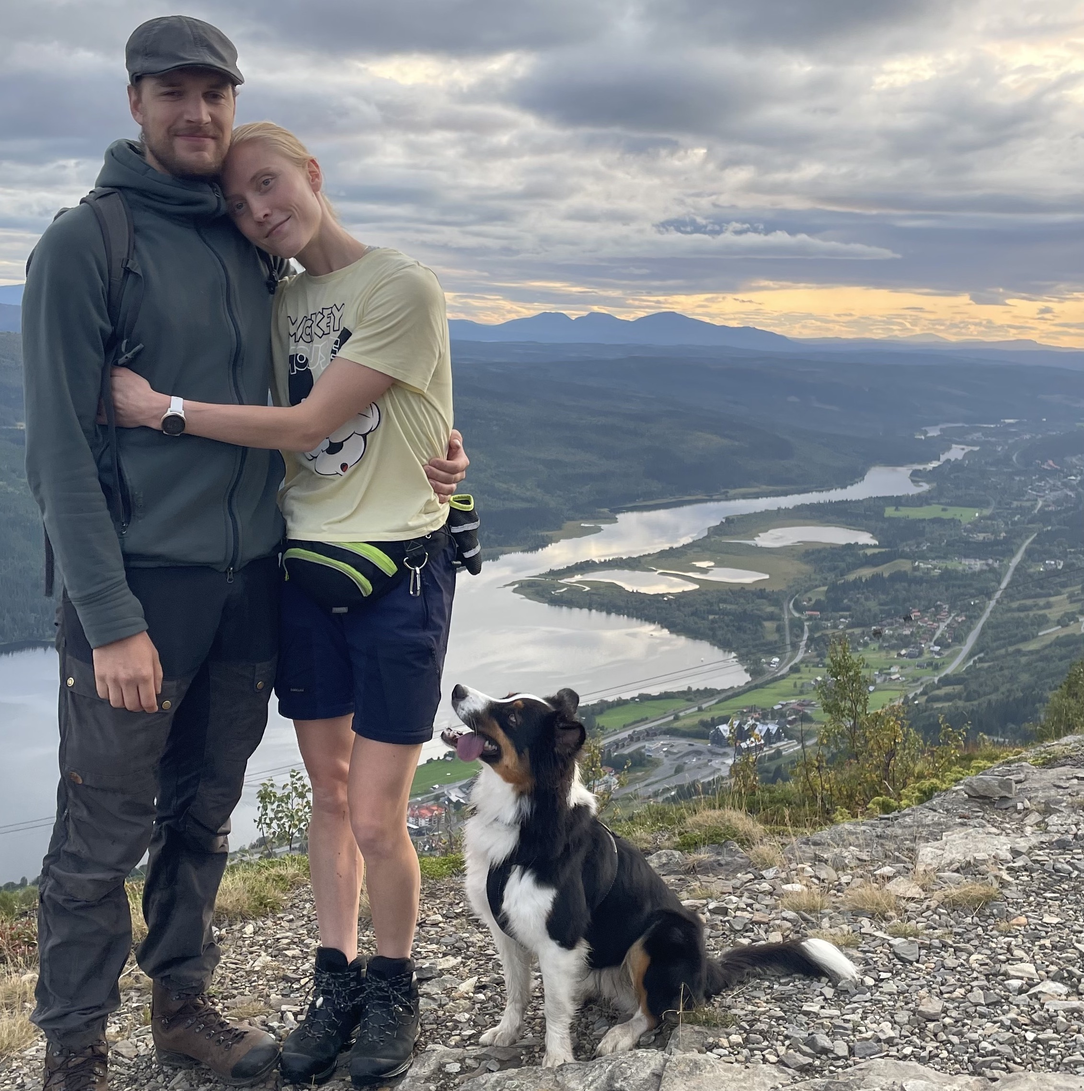
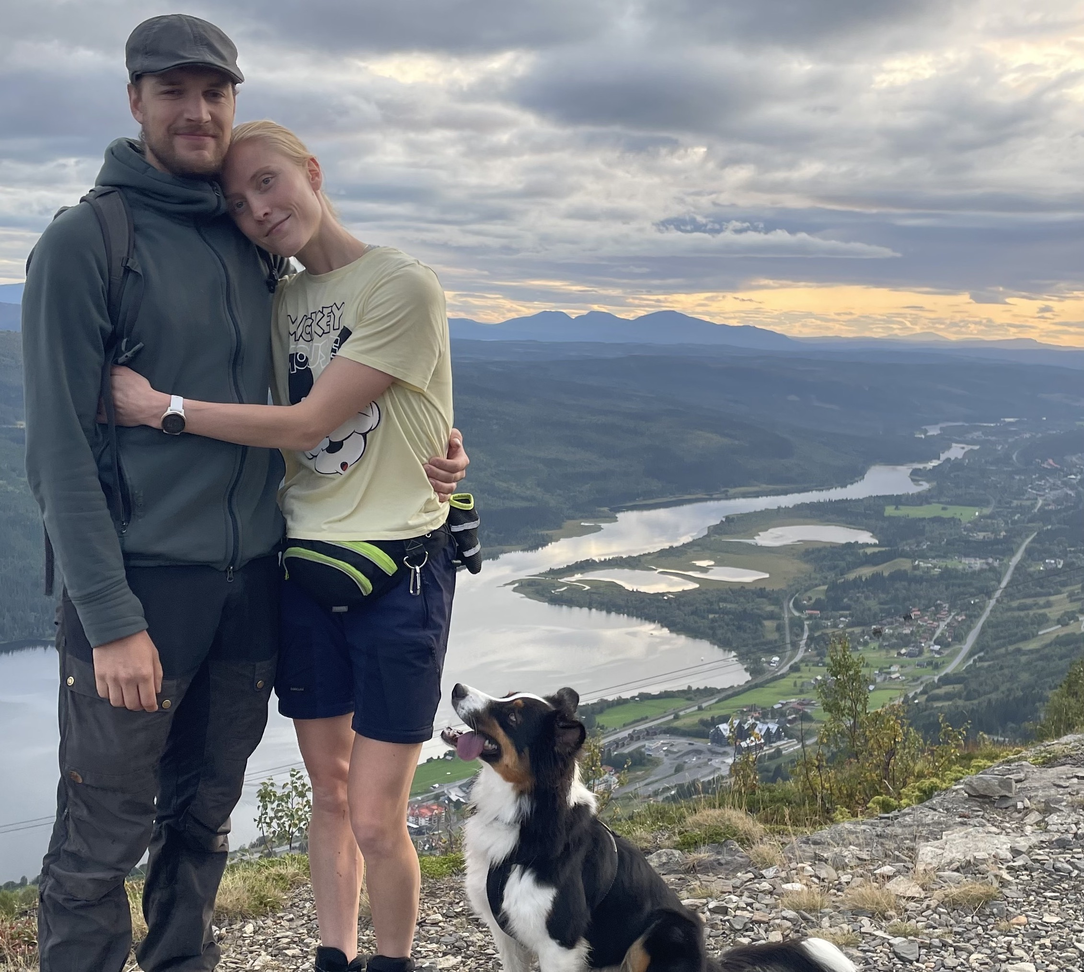
Smal fix
Fixat bakgrungsbilder, samt bilder.

diff --git a/src/style.css b/src/style.css
@@ -1,26 +1,29 @@
 body {
   margin: 0;
   padding: 0;
-  background-image: url('.jpeg');
-  background-size: cover; /* Täcker hela ytan men kan beskära bilden */
+  background-image: url('images/backgoundForest2.jpg');
+  background-size: 100% 100%;
   background-repeat: no-repeat;
   background-position: center;
-  background-attachment: fixed;
+  /* background-attachment: fixed; */
 }
 
 .framsidabild {
-  width: calc(100% - 20px); /* 100% av förälderns bredd minus 20px (10px marginal på varje sida) */
+  width: calc(100% - 380px); /* 100% av förälderns bredd minus 20px (10px marginal på varje sida) */
   height: auto; /* Bevarar bildens proportioner */
-  margin: 10px; /* Lägger till en 10px marginal runt hela bilden */
+  margin: 40px;
   box-sizing: border-box; /* Inkluderar padding och border i elementets totala bredd/höjd */
   border-radius: 3px;
 }
-
+.framsidabildContainer {
+  display: flex;
+  justify-content: center;
+}
 
 .valkomstext {
   position: absolute; /* Placera texten ovanpå bilden */
   top: 20px; /* Justera vertikal placering av texten */
-  left: 20px; /* Justera horisontell placering av texten */
+  left: 600px; /* Justera horisontell placering av texten */
   color: black; /* Vit textfärg för att synas mot bilden */
   font-size: 56px; /* Justera textstorleken efter behov */
   font-family: "Bodoni Moda SC", serif;
@@ -42,7 +45,7 @@ ul#mynav li {
 
 ul#mynav li a {
   text-decoration: none; 
-  color: black;
+  color: rgb(6, 56, 2);
   display: block; /* Gör länkarna till blockelement så att hela listobjektet är klickbart */
   padding: 15px; /* Lägger till lite utrymme runt länkarna för bättre klickbarhet */
   font-size: 20px;
@@ -61,10 +64,10 @@ ul#mynav li a:hover {
   display: flex; /* Gör MainCenterBox till en flex container */
   flex-direction: column; /* Lägg till detta för att stapla elementen vertikalt */
   border-radius: 3px;
-  background-color: white;
+  background-color: rgb(93, 152, 93);
   padding: 15px 0px 40px 0px;
   margin: 40px 70px 60px 70px;
-  box-shadow: 0px 0px 80px rgb(219, 217, 217);
+  box-shadow: 0px 0px 80px white;
 }
 
 #navigationbar {
@@ -74,8 +77,9 @@ ul#mynav li a:hover {
 .information {
   flex: 1; /* Gör att informationssektionen tar upp resten av utrymmet */
   padding: 20px; 
-  background-color: green; 
+  background-color: beige;
   margin: 20px 90px 10px 70px;
+  border-radius: 3px;
   
 }
 
@@ -133,4 +137,10 @@ hr {
 .HelaTimeCountDown {
   margin-top: 20px; /* Lägg till lite utrymme ovanför */
   text-align: center;
+}
+
+.fannyCopyright {
+  text-align: left;
+  margin-left: 30px;
+  color: white;
 }

diff --git a/src/index.html b/src/index.html
@@ -19,9 +19,10 @@
 
   <body>
     <header>
-      <p class="valkomstext">Vi skall gifta oss <br> Anna & Ruben</p>
-      <img class="framsidabild" src="images/bild1.jpeg" alt="Anna ich Ruben vid Åre">
-      
+      <div class="framsidabildContainer">
+        <p class="valkomstext">Vi skall gifta oss <br> Anna & Ruben</p>
+        <img class="framsidabild" src="images/bild1.jpeg" alt="Anna ich Ruben vid Åre">
+      </div>
     </header>
 
     <div class="MainCenterBox">
@@ -73,6 +74,7 @@
           <div id="bildgalleri" class="content-section" style="display: none;"> 
             <h2>Bildgalleri</h2>
             <p>Bilder från våra bästa stunder.</p>
+            <p>Bilder från Annas möhippa.</p>
           </div>
         </div> <!-- Slut Information -->
       </div> <!-- Slut MainContent -->
@@ -86,13 +88,13 @@
           <div id="minutes"></div>
           <div id="seconds"></div>
         </div>
-        <p>Fanny Falck </p>
+        
       </div> <!-- Slut HelaTimeCountDown -->
       
         
     </div> <!-- Slut  MainCenterBox -->
   
-
+    <p class="fannyCopyright"><br>Skapad av: Fanny Falck </p>
 
    
     

diff --git a/test.html b/test.html
@@ -1,0 +1,35 @@
+<link rel="stylesheet" href="https://unpkg.com/swiper/swiper-bundle.min.css" />
+<script src="https://unpkg.com/swiper/swiper-bundle.min.js"></script>
+
+<div class="swiper-container">
+  <div class="swiper-wrapper">
+    <div class="swiper-slide"><img src="image1.jpg" alt="Image 1"></div>
+    <div class="swiper-slide"><img src="image2.jpg" alt="Image 2"></div>
+    <div class="swiper-slide"><img src="image3.jpg" alt="Image 3"></div>
+  </div>
+  <!-- Pilen för att navigera -->
+  <div class="swiper-button-next"></div>
+  <div class="swiper-button-prev"></div>
+  <!-- Pagination om du vill -->
+  <div class="swiper-pagination"></div>
+</div>
+
+<script>
+  const swiper = new Swiper('.swiper-container', {
+  loop: true,
+  navigation: {
+    nextEl: '.swiper-button-next',
+    prevEl: '.swiper-button-prev',
+  },
+  pagination: {
+    el: '.swiper-pagination',
+    clickable: true,
+  },
+  autoplay: {
+    delay: 3000,
+  },
+  // Om du vill ha swipe på mobiler
+  touchEventsTarget: 'container',
+});
+
+</script>
